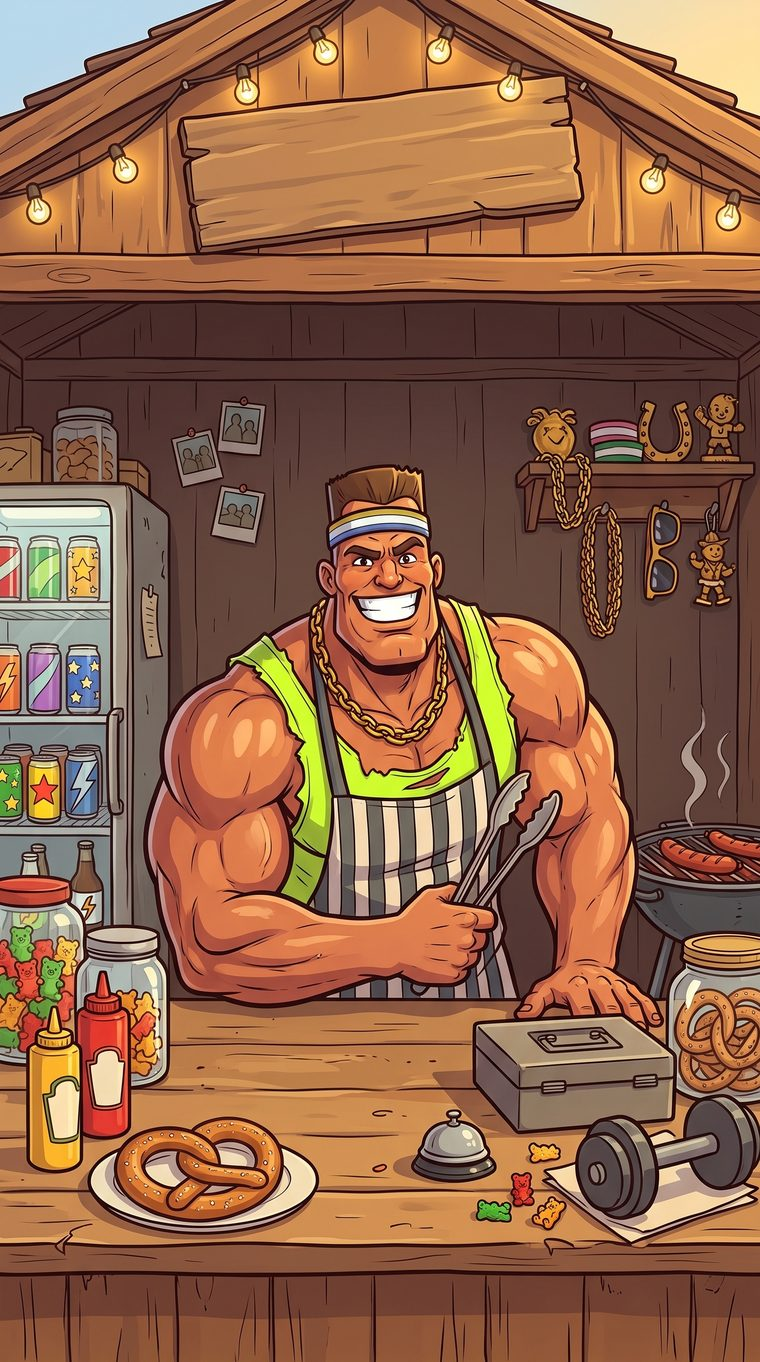
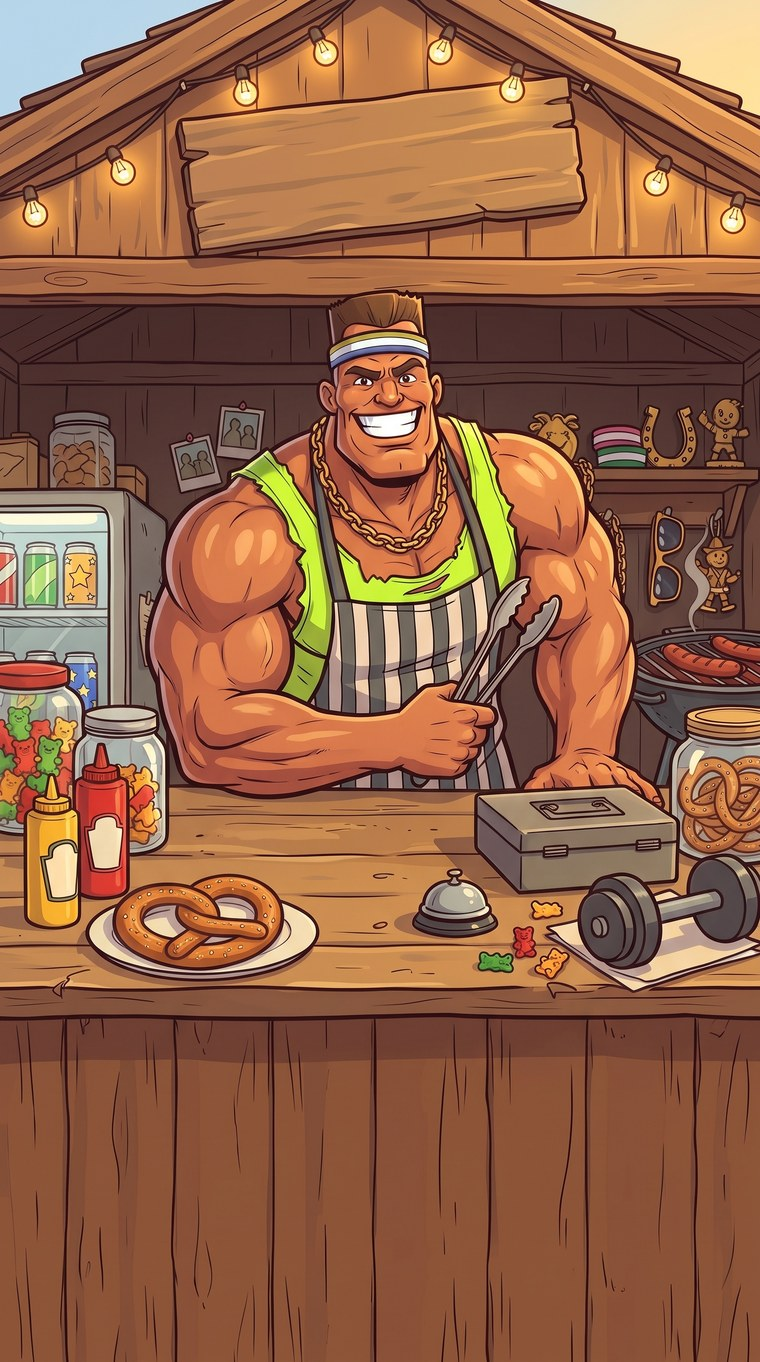
Kiosk-Bilder neu, Sportladen/Arbeitsamt-Ausschnitt

diff --git a/index.html b/index.html
@@ -1529,6 +1529,13 @@ button.mt-pl[disabled] { cursor: default; }
 #arbeit:not(.ab-rest) .ab-bg { background-image: url(img/bg/arbeitsamt.jpg); background-position: center 38%; filter: none; }
 #arbeit .ab-tabs { display: none !important; }
 #arbeit.ab-night:not(.ab-rest) .ab-bg { background-image: url(img/bg/arbeitsamt_nacht.jpg); }
+#shBg { transform: translateY(calc(-50% - 100px)) !important; }
+#shop .sh-sign { top: 9% !important; }
+#arbeit:not(.ab-rest) .ab-bg { inset: 0 !important; background-color: #2A1A10 !important; background-repeat: no-repeat !important; background-size: 100% auto !important; background-position: center var(--abY, -40px) !important; }
+#abList.work .ab-card.pick { padding: 3px 8px !important; grid-template-columns: 34px 1fr auto !important; }
+#abList.work .ab-card.pick .ab-ic { width: 34px !important; height: 34px !important; font-size: 18px !important; }
+#abList.work .ab-card.pick .ab-txt > span { display: none !important; }
+#abList.work .ab-card.pick .ab-txt { display: flex; gap: 8px; align-items: baseline; flex-wrap: wrap; }
 
 body > .bar { display: none !important; }
 html, body { position: fixed; inset: 0; width: 100%; height: 100%; margin: 0; overflow: hidden; overscroll-behavior: none; background: #000 !important; }
